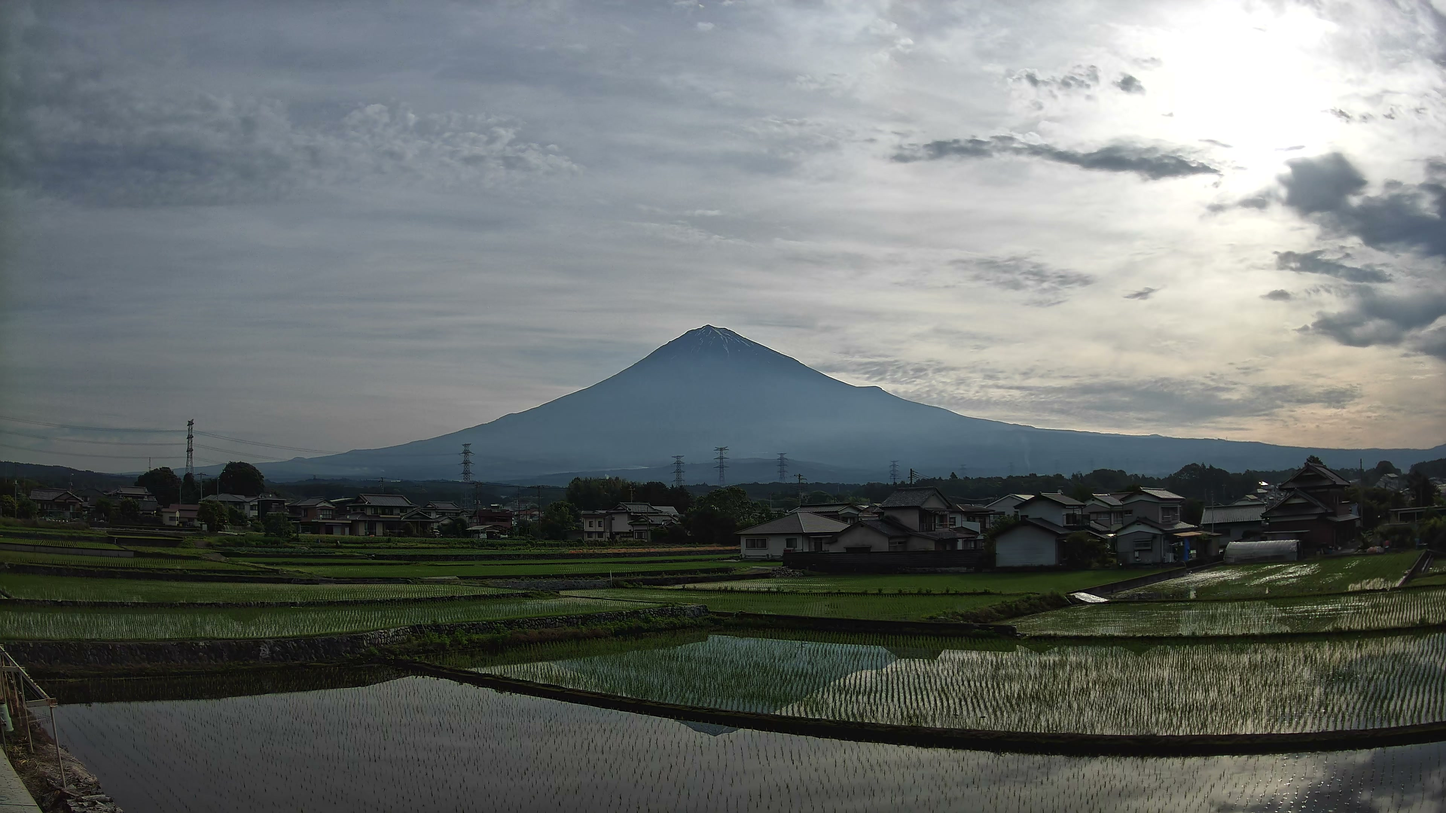
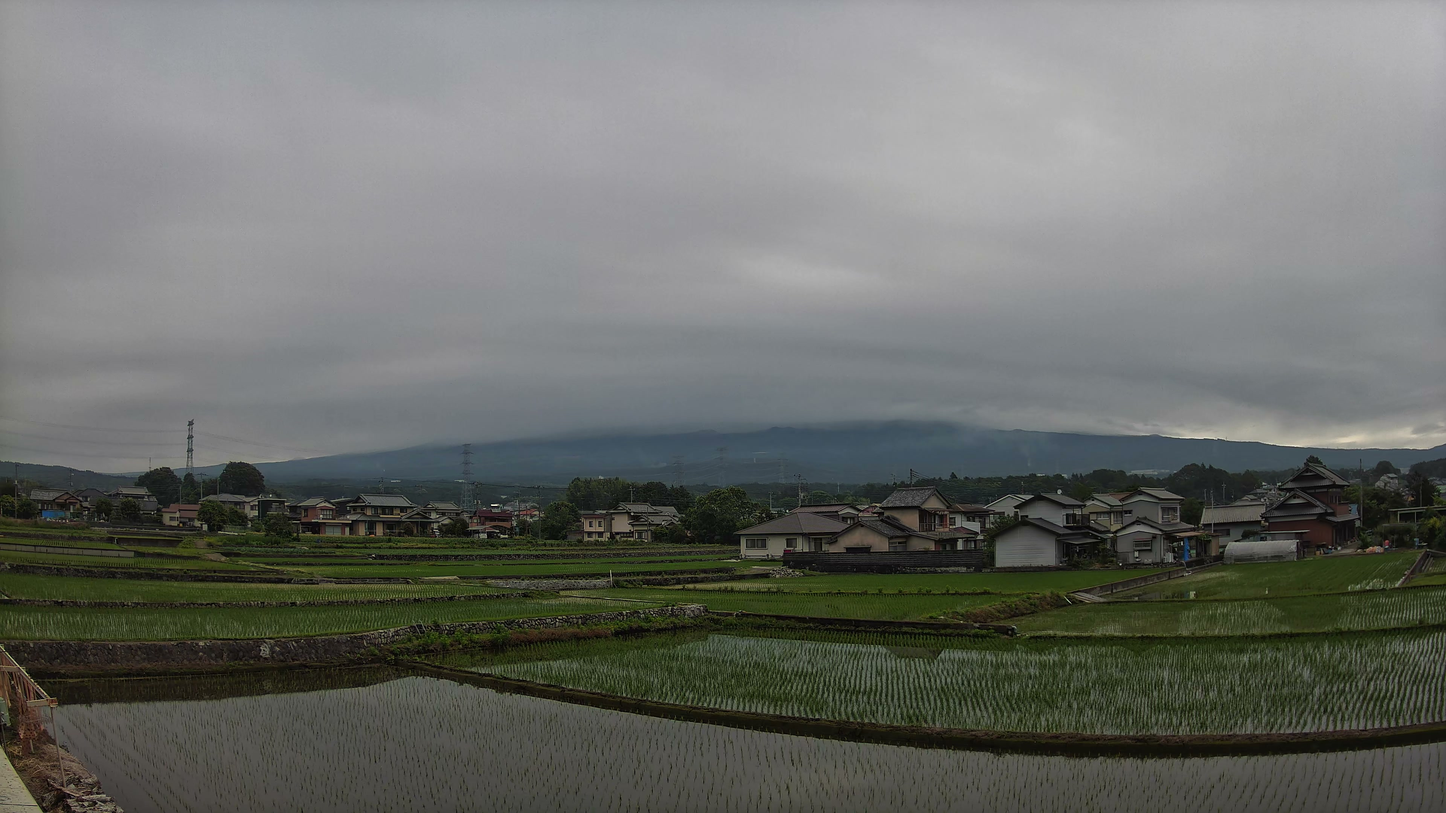
post: 富士山麓だより 2026-05-28 13:00 自動投稿

diff --git a/content/posts/2026-05-28-1300-morning.md b/content/posts/2026-05-28-1300-morning.md
@@ -1,0 +1,39 @@
+---
+title: "富士山麓だより 朝 2026年05月28日"
+date: 2026-05-28T13:00:01+09:00
+slug: "2026-05-28-1300-morning"
+draft: false
+image: "/images/posts/2026-05/2026-05-28-morning.jpg"
+tags:
+  - "米農家"
+  - "富士山"
+  - "富士宮"
+  - "静岡"
+  - "農業"
+  - "FUJIRICE"
+  - "新米"
+  - "産地直送"
+categories:
+  - "富士山麓だより"
+---
+
+立夏を過ぎて、富士山麓も夏の入り口に立ちました。朝の風は清々しく、新緑の香りを運んできます。富士山はまだ雪を残していて、その白と山肌の緑のコントラストが絶景です。今日も一日、よろしくお願いします。
+
+![富士山麓だより 朝 2026年05月28日](/images/posts/2026-05/2026-05-28-morning.jpg)
+
+## 🎥 最新の YouTube 動画
+
+<div style="position:relative;padding-bottom:56.25%;height:0;overflow:hidden;max-width:100%;margin:1em 0;">
+  <iframe src="https://www.youtube.com/embed/M7fw6BWjYNo" title="Reflected Mt. Fuji | 雲から富士山が現れた！ 【朝】｜4K 富士宮市 2026-05-27" style="position:absolute;top:0;left:0;width:100%;height:100%;border:0;" allow="accelerometer; autoplay; clipboard-write; encrypted-media; gyroscope; picture-in-picture; web-share" allowfullscreen></iframe>
+</div>
+
+---
+
+**FUJI RICE** 富士山麓・富士宮市の米農家
+- 🛒 [Yahoo!ショッピングで購入](https://store.shopping.yahoo.co.jp/iwatayacom/)
+- 🌐 [FUJI RICE HP](https://fujisanroku-rice.pages.dev/)
+- 🐦 [X @FUJIRICE_jp](https://x.com/FUJIRICE_jp)
+- 📷 [Instagram @fujirice_farm](https://www.instagram.com/fujirice_farm/)
+- 🎥 [YouTube チャンネル](https://www.youtube.com/@fujirice_official)
+- 💬 [LINE で相談](https://line.me/R/ti/p/%40508ouhoc)
+- 🎵 [稲歌みほ（配信）](https://hyperfollow.com/inautamiho)
